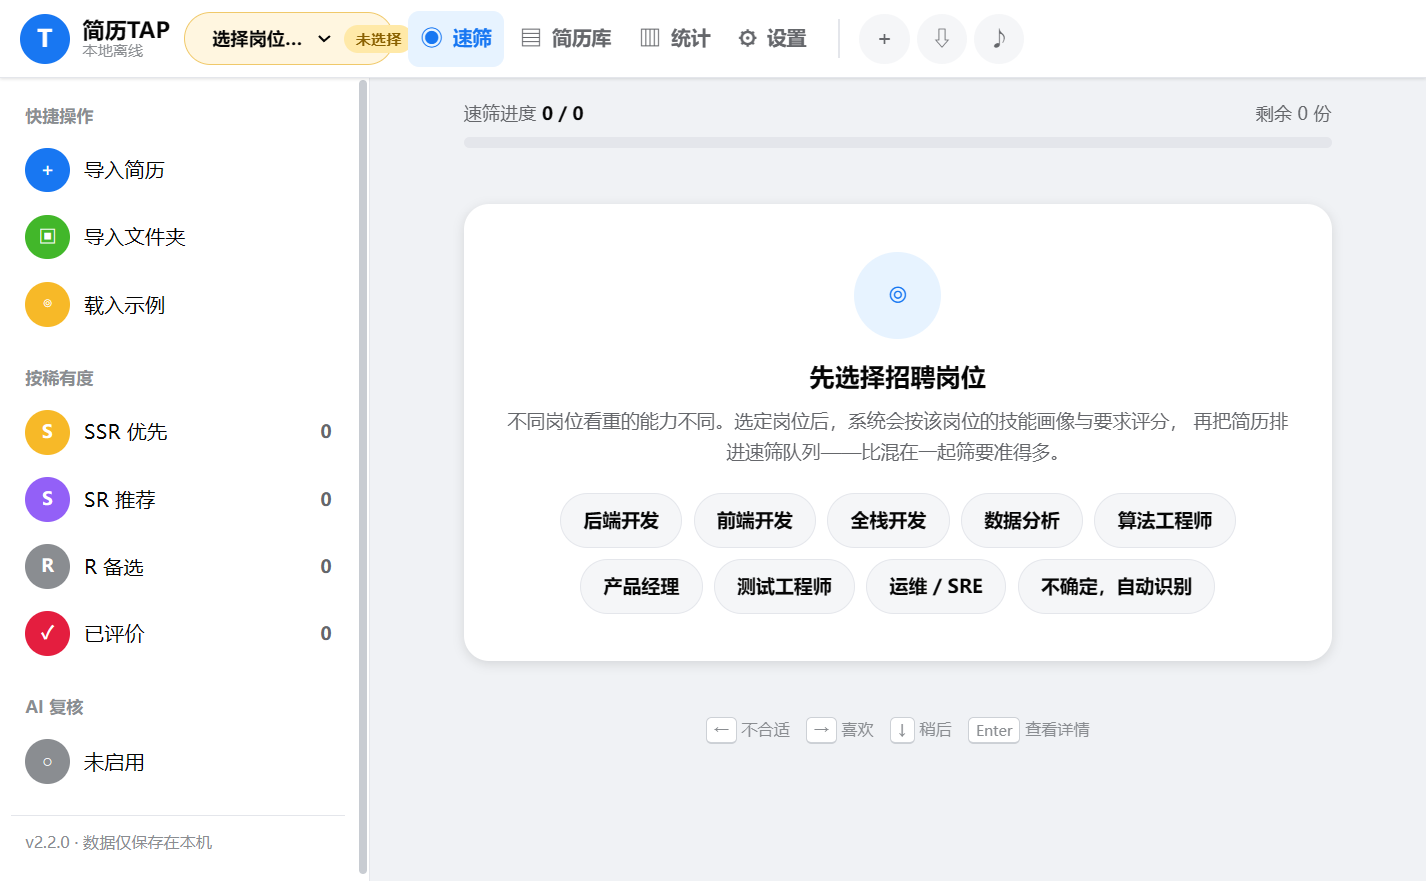
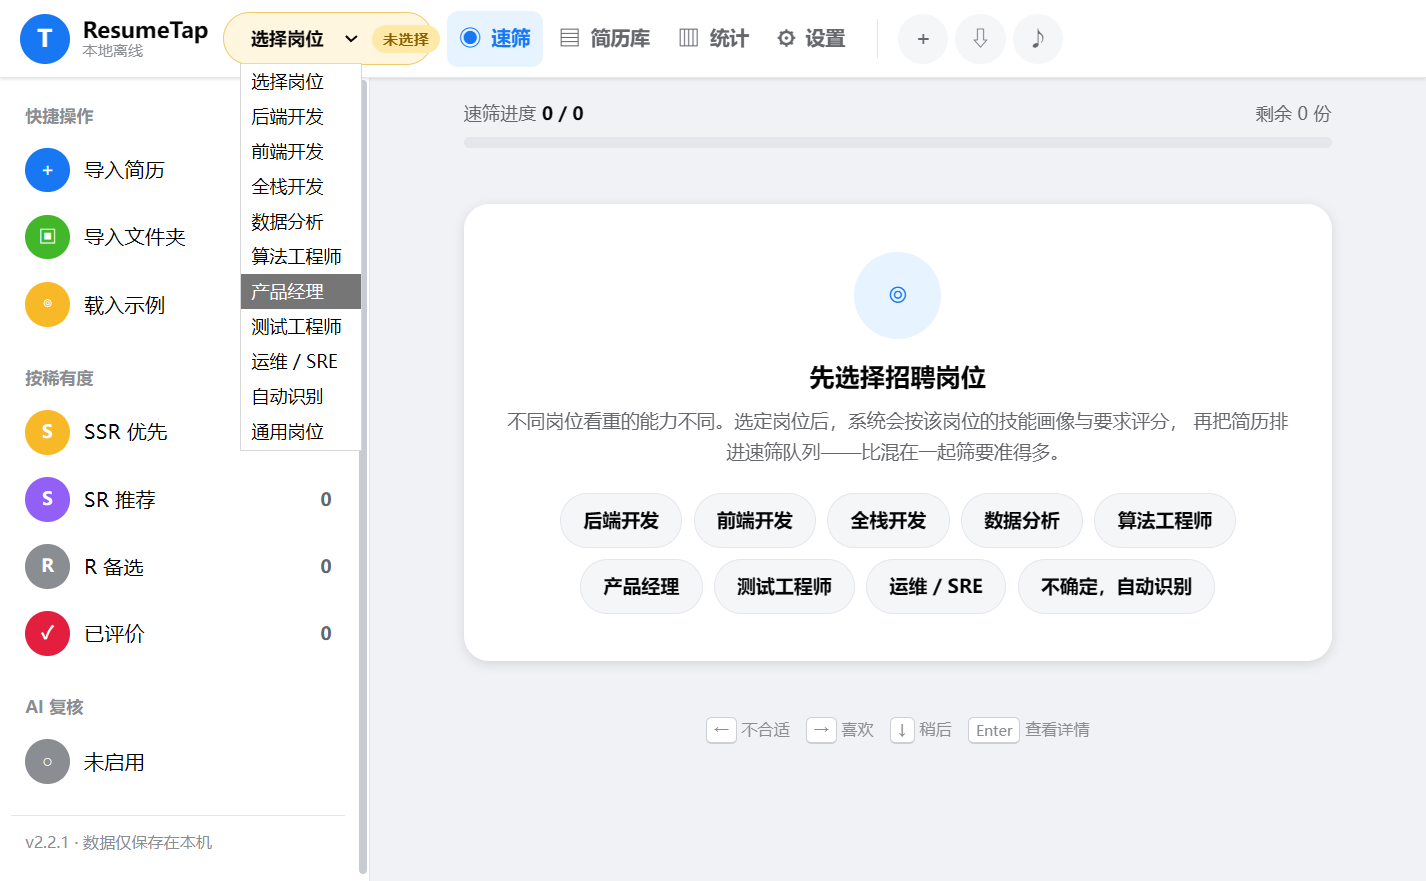
feat: 重建为ResumeTap（桌面端简历速筛）
- 从 FastAPI Web 应用重构为 pywebview 桌面应用，打包为单文件 exe
- 约会软件式逐份速筛：自动给出优点/不足，支持 喜欢 / 不合适 / 稍后
- 六维评分（技能/经验/学历/项目/关键词/岗位匹配），权重与阈值可配置
- 院校分层（C9/985/211/双一流/海外/普通/专科），学历权重上调并保护应届生
- 必须先选定招聘岗位，再按该岗位画像评分
- 卡片展示毕业院校全名与联系方式（手机/邮箱）
- 支持自定义 OpenAI 兼容接口做 AI 复核（默认关闭，失败回退规则评分）
- 对外审查 API 默认关闭，回环 + 令牌鉴权
- 修复拖拽导入（改用字节通道，保留原文件名）
- 移除成就模块；106 项自动化测试

BREAKING CHANGE: 原 Web 服务版本已被桌面应用取代

Changed region(s): [[0.0617, 0.0, 0.6171, 0.521], [0.6788, 0.0306, 0.7097, 0.0613]]

diff --git a/ui/index.html b/ui/index.html
@@ -3,7 +3,7 @@
 <head>
 <meta charset="UTF-8">
 <meta name="viewport" content="width=device-width, initial-scale=1.0">
-<title>简历TAP</title>
+<title>ResumeTap</title>
 <link rel="stylesheet" href="css/style.css">
 </head>
 <body>
@@ -13,7 +13,7 @@
   <div class="logo">
     <div class="logo-mark">T</div>
     <div class="logo-text">
-      <strong>简历TAP</strong>
+      <strong>ResumeTap</strong>
       <span>本地离线</span>
     </div>
   </div>

diff --git a/tools/push_via_api.py b/tools/push_via_api.py
@@ -20,7 +20,7 @@ from pathlib import Path
 
 ROOT = Path(__file__).resolve().parent.parent
 OWNER = "iATOEL"
-REPO = "resume-screening-system"
+REPO = "ResumeTap"
 BRANCH = "main"
 API = "https://api.github.com"
 
@@ -114,7 +114,7 @@ def main() -> int:
 
     # 5. commit
     message = (
-        "feat: 重建为简历TAP（桌面端简历速筛）\n"
+        "feat: 重建为ResumeTap（桌面端简历速筛）\n"
         "\n"
         "- 从 FastAPI Web 应用重构为 pywebview 桌面应用，打包为单文件 exe\n"
         "- 约会软件式逐份速筛：自动给出优点/不足，支持 喜欢 / 不合适 / 稍后\n"

diff --git a/app/api.py b/app/api.py
@@ -203,7 +203,7 @@ class _Handler(BaseHTTPRequestHandler):
     # ---------- 具体实现 ----------
     def _describe(self) -> dict:
         return {
-            "name": "简历抽卡 · 本地 AI 审查 API",
+            "name": "ResumeTap · 本地 AI 审查 API",
             "version": APP_VERSION,
             "auth": "在请求头加入 X-API-Token: <token>",
             "endpoints": {

diff --git a/app/config.py b/app/config.py
@@ -182,7 +182,7 @@ def _migrate(raw: dict) -> tuple[dict, bool]:
     return raw, True
 
 
-CONFIG_TEMPLATE = """# 简历抽卡 · 配置文件
+CONFIG_TEMPLATE = """# ResumeTap · 配置文件
 # 修改后可在应用「设置」页点击“保存并重新评分”，或直接重启应用。
 # 本文件保存在用户数据目录，升级/重装 exe 不会丢失。
 

diff --git a/run_app.py b/run_app.py
@@ -14,7 +14,7 @@ if __name__ == "__main__":
 
             ctypes.windll.user32.MessageBoxW(
                 0, "程序启动失败：\n\n" + traceback.format_exc(limit=4),
-                "简历抽卡", 0x10,
+                "ResumeTap", 0x10,
             )
         except Exception:  # noqa: BLE001
             print(traceback.format_exc(), file=sys.stderr)

diff --git a/app/paths.py b/app/paths.py
@@ -4,9 +4,10 @@ import os
 import sys
 from pathlib import Path
 
+# 数据目录名：沿用 Resumegacha 时期的目录，避免老用户升级后数据丢失
 APP_NAME = "ResumeGacha"
-APP_TITLE = "简历TAP"
-APP_VERSION = "2.2.0"
+APP_TITLE = "ResumeTap"
+APP_VERSION = "2.2.1"
 
 
 def resource_dir() -> Path:

diff --git a/tools/exe_verify.py b/tools/exe_verify.py
@@ -1,7 +1,7 @@
 """对已运行的 exe 做验收（速筛界面版）。
 
 用法：
-    RESUME_GACHA_CDP_PORT=9335 dist/简历抽卡.exe
+    RESUME_GACHA_CDP_PORT=9335 dist/ResumeTap.exe
     RESUME_GACHA_CDP_PORT=9335 python tools/exe_verify.py
 """
 

diff --git a/app/__init__.py b/app/__init__.py
@@ -1,3 +1,3 @@
-"""简历抽卡 —— 本地离线的简历筛选桌面应用。"""
+"""ResumeTap —— 本地离线的简历筛选桌面应用。"""
 
 __all__ = ["paths", "config", "parser", "extractor", "scoring", "storage", "services"]

diff --git a/README.md b/README.md
@@ -1,4 +1,4 @@
-# 简历TAP · Resume Tap
+# ResumeTap
 
 > 本地离线的简历速筛桌面应用。先选定要招的岗位，再逐份过简历：软件给出**优点、缺点、评分理由**，你只需按 `喜欢 / 不合适 / 稍后` 做决定。可选接入你自己的 AI 做二次复核。
 
@@ -29,7 +29,7 @@
 
 ### 方式一：直接运行 exe（推荐）
 
-从 [Releases](https://github.com/iATOEL/resume-screening-system/releases/latest) 下载 `ResumeTAP.exe`（即界面里的「简历TAP」），双击运行：
+从 [Releases](https://github.com/iATOEL/ResumeTap/releases/latest) 下载 `ResumeTap.exe`（即界面里的「ResumeTap」），双击运行：
 
 1. 首次启动自动创建配置与数据库
 2. 顶部先选择要招聘的岗位
@@ -350,7 +350,7 @@ curl -X POST -H "X-API-Token: $TOKEN" \
 .venv/Scripts/python.exe build.py --onedir   # 目录版（启动更快）
 ```
 
-产物：项目根目录的 `简历TAP.exe`（约 43 MB，已被 `.gitignore` 排除，不会误提交）
+产物：项目根目录的 `ResumeTap.exe`（约 43 MB，已被 `.gitignore` 排除，不会误提交）
 
 构建脚本会自动：生成图标 → 检查/生成示例简历 → 清理 → PyInstaller 打包。
 
@@ -358,7 +358,7 @@ curl -X POST -H "X-API-Token: $TOKEN" \
 
 ```bash
 .venv/Scripts/python.exe -m PyInstaller --noconfirm --clean --onefile \
-  --name "简历TAP" --windowed \
+  --name "ResumeTap" --windowed \
   --add-data "ui;ui" --add-data "assets;assets" --add-data "samples;samples" \
   --hidden-import webview.platforms.edgechromium \
   --icon assets/icon.ico \
@@ -469,7 +469,7 @@ resume-gacha/
 
 | # | 验收项 | 结果 | 证据 |
 |---|---|---|---|
-| 1 | 双击 exe 启动，无需开发环境 | ✅ | `简历TAP.exe` 在主目录，独立启动自动建库 |
+| 1 | 双击 exe 启动，无需开发环境 | ✅ | `ResumeTap.exe` 在主目录，独立启动自动建库 |
 | 2 | 先选岗位再速筛 | ✅ | 未选岗位显示岗位选择页，选中后进入队列 |
 | 3 | 切换岗位后全库重新评分 | ✅ | 后端 vs 前端评分不同，自动重算 |
 | 4 | 卡片显示毕业院校全名与层级 | ✅ | 逐段列出「浙江大学 · C9」等 |
